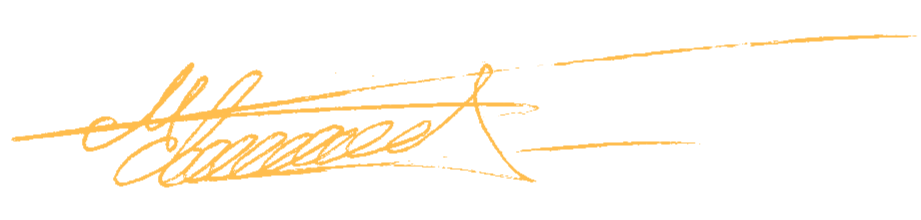
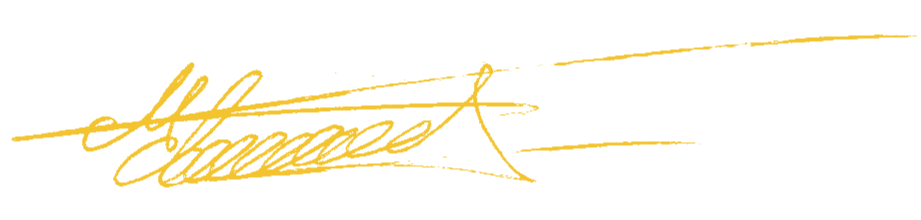
v1.0.0
Додано нові відгуки в темному стилі.
Замінено невірну картинку в Послугах.
Додано логіку для відгуків.
Відкореговано розмір іконок для мобільного меню навігації.
Обрано новий акцентний колір.
Додано марджин для кнопки в хедері при мобільному перегляді (обрізало через панель мобільного браузера на телефоні).
Замінено логотип на більш якісний. Замінено на новий акцентний колір підпис та лого в навігації.

diff --git a/src/components/Testimonials.jsx b/src/components/Testimonials.jsx
@@ -2,7 +2,7 @@ import React, { useState } from "react";
 import "../styles/Testimonials.scss";
 import { CarouselProvider } from "pure-react-carousel";
 import "pure-react-carousel/dist/react-carousel.es.css";
-
+import Testimonial from "./Testimonial";
 import TestimonialCarousel from "./CarouselSlider";
 
 const Testimonials = () => {
@@ -17,17 +17,19 @@ const Testimonials = () => {
       <div className="testimonials__list">
         <CarouselProvider
           visibleSlides={slideCount}
-          totalSlides={6}
+          totalSlides={7}
           step={1}
           currentSlide={currentSlide}
           naturalSlideWidth={100}
           naturalSlideHeight={125}
           isIntrinsicHeight={true}
+          infinite={true}
         >
           <TestimonialCarousel
             setSlideCount={setSlideCount}
             setCurrentSlide={setCurrentSlide}
           />
+          <Testimonial currentSlide={currentSlide} />
         </CarouselProvider>
       </div>
     </section>

diff --git a/src/styles/Navigation.scss b/src/styles/Navigation.scss
@@ -8,9 +8,9 @@
   top: 0;
   left: 0;
   right: 0;
-  -webkit-box-shadow: 3px 3px 10px 3px rgba(0, 0, 0, 0.45);
-  -moz-box-shadow: 3px 3px 10px 3px rgba(0, 0, 0, 0.45);
-  box-shadow: 3px 3px 10px 3px rgba(0, 0, 0, 0.45);
+  -webkit-box-shadow: 0px 0px 30px #00000052;
+  -moz-box-shadow: 0px 0px 30px #00000052;
+  box-shadow: 0px 0px 30px #00000052;
 
 
   display: flex;
@@ -56,7 +56,7 @@
     // background-color: $background-color;
     background-color: transparent;
     transform: translate(0);
-    transition: transform 0.9 ease-in;
+    transition: display 0.9 ease-in;
 
     & .navigation__list {
       background-color: #27303a;
@@ -121,7 +121,7 @@
     text-align: center;
     padding: 40px;
     border-bottom: 1px solid $accent-color;
-    font-size: 20px;
+    font-size: 30px;
 
     & li {
       margin: 15px 0;

diff --git a/src/components/Testimonial.jsx b/src/components/Testimonial.jsx
@@ -1,12 +1,23 @@
 import React from "react";
 import "../styles/Testimonial.scss";
 
-import Screen from "../images/testimonial.jpg";
+const testimonials = [
+  "feedback1.jpg",
+  "feedback2.jpg",
+  "feedback3.jpg",
+  "feedback4.jpg",
+  "feedback5.jpg",
+  "feedback6.jpg",
+  "feedback7.jpg",
+];
 
-const Testimonial = () => {
+const Testimonial = ({ currentSlide }) => {
   return (
     <blockquote className="testimonials__item">
-      <img alt="Скріншот відгука" src={Screen} />
+      <img
+        alt={`Скріншот відгука ${currentSlide + 1}`}
+        src={require(`../images/${testimonials[currentSlide]}`)}
+      />
     </blockquote>
   );
 };

diff --git a/src/styles/About.scss b/src/styles/About.scss
@@ -129,7 +129,7 @@
   &:focus {
     border: 1px solid #FFBD4E;
     transform: scale(1);
-    box-shadow: 10px 10px 15px rgba(0, 0, 0, 0.3);
+    box-shadow: 0px 0px 30px #00000052;
   }
 
   &:hover .image_goal,
@@ -188,7 +188,7 @@
   &:focus {
     border: 1px solid #FFBD4E;
     transform: scale(1);
-    box-shadow: 10px 10px 15px rgba(0, 0, 0, 0.3);
+    box-shadow: 0px 0px 30px #00000052;
   }
 
   &:hover .image_cooperation,

diff --git a/src/components/Services.jsx b/src/components/Services.jsx
@@ -3,7 +3,7 @@ import "../styles/Services.scss";
 import "../fontello/css/icons.css";
 import Person from "../images/civil-services-dark.jpg";
 import Company from "../images/company-services-dark.jpg";
-import Criminal from "../images/company-services-dark.jpg";
+import Criminal from "../images/criminal-services-dark.jpg";
 import Help from "../images/foreign-services-dark.jpg";
 
 const Services = () => (

diff --git a/src/styles/_variables.scss b/src/styles/_variables.scss
@@ -1,7 +1,7 @@
 // Основні кольори
 $primary-color: #000000;
 $secondary-color: #447F8D;
-$accent-color: #edc339;
+$accent-color: #f4c430;
 $light-color: #ffffff;
 $background-color: #29343E;
 $background-nav: #25282F;

diff --git a/src/styles/Header.scss b/src/styles/Header.scss
@@ -35,7 +35,7 @@
     display: flex;
     flex-direction: column;
     z-index: 5;
-    margin-bottom: 20px;
+    margin-bottom: 50px;
   }
 
   &__title {
